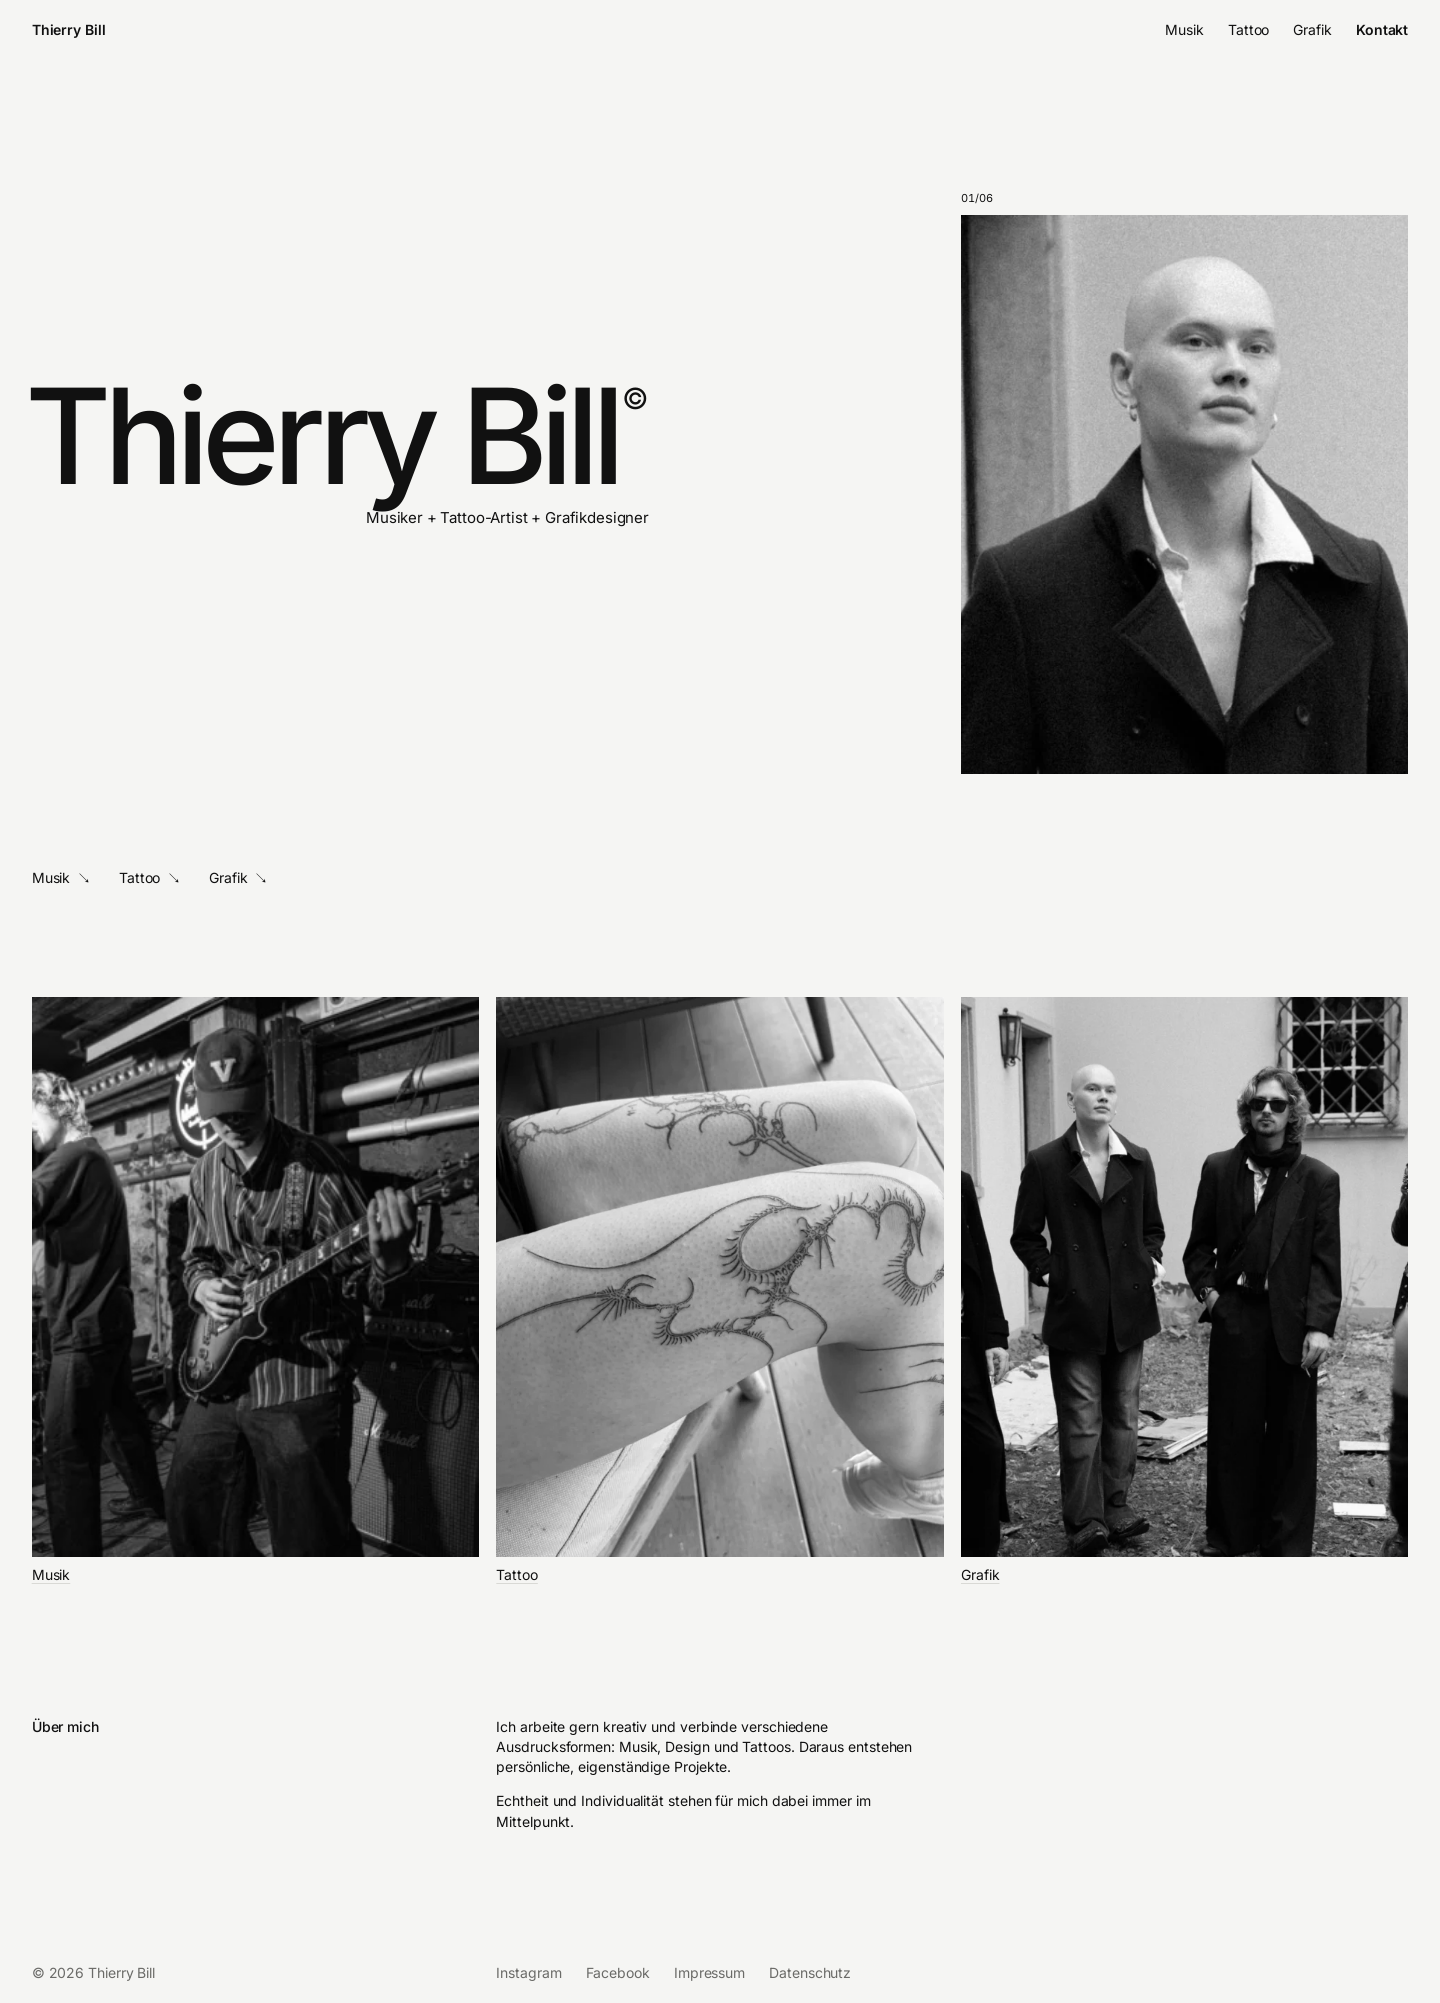
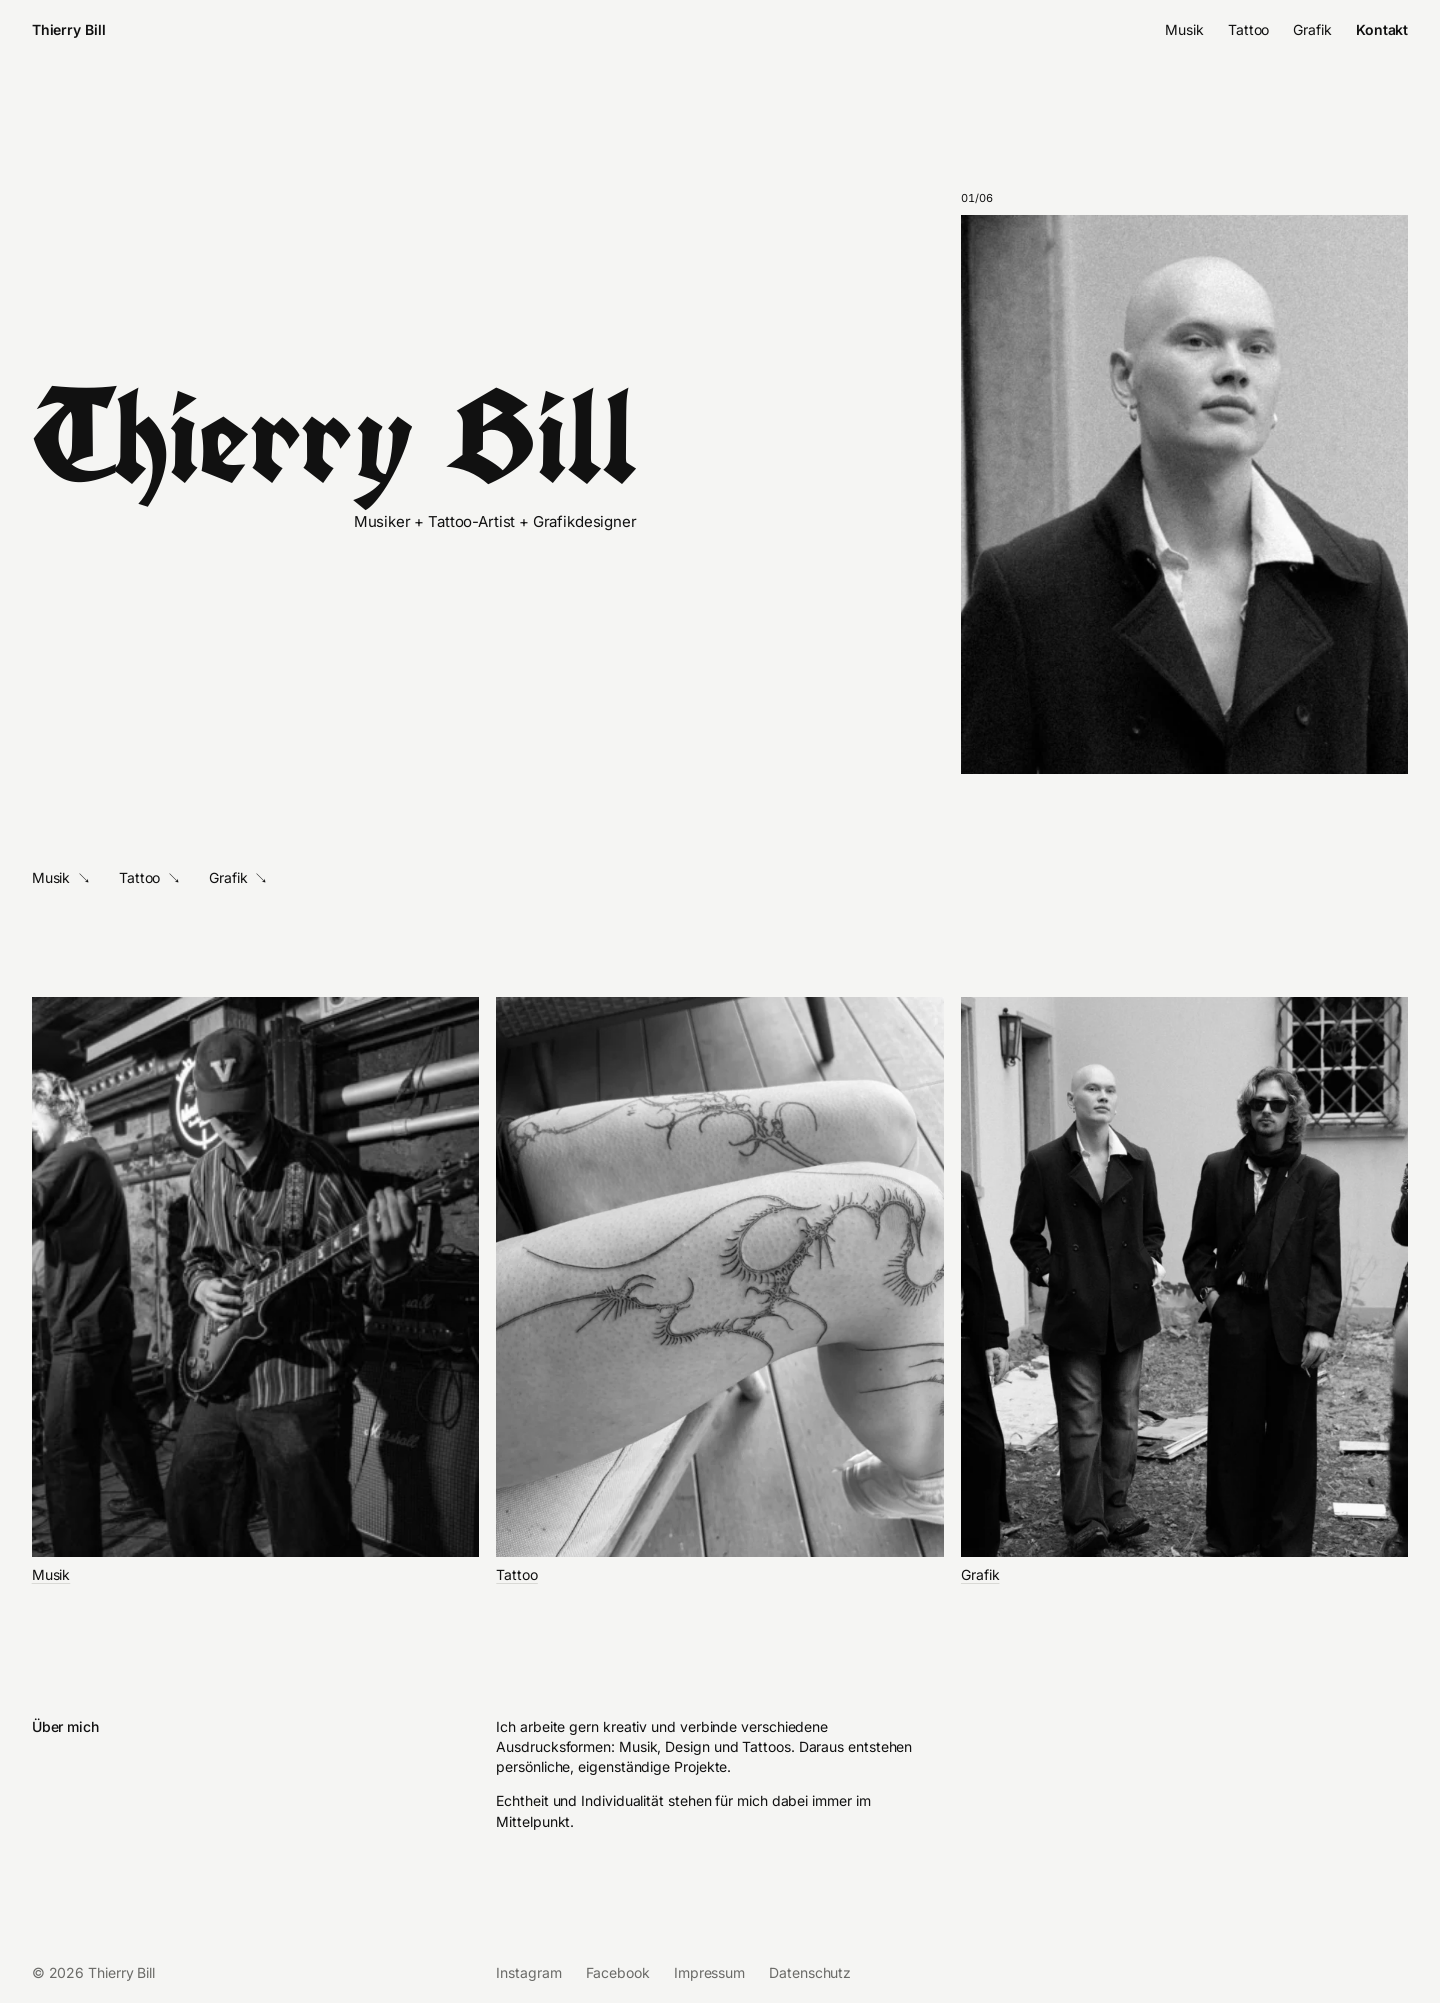
Titel in Fraktur (UnifrakturCook), © beim Namen entfernt
- Hero-Titel (Name, Musik, Tattoo, Grafik, Kontakt) in UnifrakturCook, lokal
  eingebunden (17 KB) und vorgeladen; Text und Navigation bleiben in Inter
- © hinter dem Namen auf der Startseite samt Option in tb_hero() und CSS entfernt
- Schriftvergleiche in docs/schrift-varianten.png und docs/schrift-varianten-2.png

Changed region(s): [[0.0, 0.1857, 0.4375, 0.2786]]

diff --git a/web/wp-content/themes/thierrybill/style.css b/web/wp-content/themes/thierrybill/style.css
@@ -225,26 +225,17 @@ a {
 	gap: 0.6rem;
 }
 
+/* Titel in Fraktur (UnifrakturCook): nur hier, alles andere bleibt Inter. Nie in Versalien. */
 .tb-display {
-	font-size: clamp(3rem, 9.2vw, 10.5rem) !important;
-	font-weight: 500 !important;
-	line-height: 0.92 !important;
-	letter-spacing: -0.055em !important;
+	font-family: var(--wp--preset--font-family--fraktur) !important;
+	font-size: clamp(3rem, 9vw, 10rem) !important;
+	font-weight: 700 !important;
+	line-height: 1 !important;
+	letter-spacing: 0 !important;
+	text-transform: none;
 	margin: 0;
-	margin-left: -0.05em !important;
-}
-
-.tb-display--mark::after {
-	content: "©";
-	display: inline-block;
-
-	font-size: 0.22em;
-	font-weight: 400;
-	letter-spacing: 0;
-	vertical-align: top;
-	position: relative;
-	top: 0.35em;
-	margin-left: 0.15em;
+	font-kerning: normal;
+	font-feature-settings: "liga", "dlig";
 }
 
 /* Kernaussage als H2: gleiche Optik wie der grosse Absatz */

diff --git a/web/wp-content/themes/thierrybill/functions.php b/web/wp-content/themes/thierrybill/functions.php
@@ -5,7 +5,7 @@
 
 defined( 'ABSPATH' ) || exit;
 
-define( 'THIERRYBILL_VERSION', '4.1.0' );
+define( 'THIERRYBILL_VERSION', '4.2.1' );
 
 /**
  * Theme-Setup.
@@ -278,14 +278,10 @@ function tb_placeholder( string $label, string $ratio = 'tb-r-45' ): string {
  * @param string   $subtitle Unterzeile, z. B. «Musiker + Tattoo-Artist + Grafikdesigner».
  * @param string[] $images   Bild-Schluessel (siehe tb_img_id()).
  * @param array    $links    [ [ Text, URL ], … ].
- * @param bool     $mark     «©» hinter dem Titel.
  */
-function tb_hero( string $title, string $subtitle, array $images = [], array $links = [], bool $mark = false ): string {
-	// Das «©» setzt CSS (::after), damit der H1-Text sauber «Thierry Bill» bleibt.
-	$class   = $mark ? 'tb-display tb-display--mark' : 'tb-display';
+function tb_hero( string $title, string $subtitle, array $images = [], array $links = [] ): string {
 	$heading = sprintf(
-		"<!-- wp:heading {\"level\":1,\"className\":\"%1\$s\"} -->\n<h1 class=\"wp-block-heading %1\$s\">%2\$s</h1>\n<!-- /wp:heading -->\n",
-		$class,
+		"<!-- wp:heading {\"level\":1,\"className\":\"tb-display\"} -->\n<h1 class=\"wp-block-heading tb-display\">%s</h1>\n<!-- /wp:heading -->\n",
 		esc_html( $title )
 	);
 	$inner = tb_cell( 'tb-at-1 tb-w-8 tb-hero__name', $heading . tb_p( esc_html( $subtitle ), 'tb-hero__sub' ) );
@@ -349,11 +345,14 @@ add_filter( 'render_block_core/image', static function ( string $html, array $bl
 }, 10, 2 );
 
 /**
- * Hauptschrift vorladen (verhindert spaetes Umspringen der Schrift).
+ * Schriften vorladen (verhindert spaetes Umspringen der Schrift).
  */
 add_action( 'wp_head', static function (): void {
-	printf(
-		'<link rel="preload" href="%s" as="font" type="font/woff2" crossorigin>' . "\n",
-		esc_url( get_theme_file_uri( 'assets/fonts/inter-latin.woff2' ) )
-	);
+	// Inter (Text) und UnifrakturCook (Hero-Titel, oft das groesste sichtbare Element).
+	foreach ( [ 'inter-latin.woff2', 'unifrakturcook-latin.woff2' ] as $font ) {
+		printf(
+			'<link rel="preload" href="%s" as="font" type="font/woff2" crossorigin>' . "\n",
+			esc_url( get_theme_file_uri( 'assets/fonts/' . $font ) )
+		);
+	}
 }, 1 );

diff --git a/web/wp-content/themes/thierrybill/patterns/page-start.php b/web/wp-content/themes/thierrybill/patterns/page-start.php
@@ -14,8 +14,7 @@ echo tb_hero(
 		[ 'Musik', tb_page_url( 'musik' ) ],
 		[ 'Tattoo', tb_page_url( 'tattoo' ) ],
 		[ 'Grafik', tb_page_url( 'grafik' ) ],
-	],
-	true
+	]
 );
 
 echo tb_spread(

diff --git a/README.md b/README.md
@@ -18,16 +18,16 @@ ddev start
 
 ## Theme
 
-Eigenes Block-Theme unter `web/wp-content/themes/thierrybill/`, schlicht im Stil eines Fotografen-/Art-Director-Portfolios: gebrochenes Weiss (#f5f5f3), schwarz, eine Schrift, viel Weissraum, Fotos in Schwarz-Weiss.
+Eigenes Block-Theme unter `web/wp-content/themes/thierrybill/`, schlicht im Stil eines Fotografen-/Art-Director-Portfolios: gebrochenes Weiss (#f5f5f3), schwarz, viel Weissraum, Fotos in Schwarz-Weiss. Grosse Titel in Fraktur, alles andere in Inter.
 
-- `theme.json`: Farben, Schrift **Inter** (lokal in `assets/fonts/`, keine Verbindung zu Google), Grundschrift 14 px
+- `theme.json`: Farben, Schriften **Inter** (Text, Navigation) und **UnifrakturCook** (nur Hero-Titel, Klasse `tb-display`), beide lokal in `assets/fonts/` (keine Verbindung zu Google), Grundschrift 14 px. Fraktur nie in Versalien setzen. Varianten-Vergleich: `docs/schrift-varianten.png`, `docs/schrift-varianten-2.png`
 - `templates/`: front-page, page-no-title (Seiten aus Patterns), page/single (z. B. Impressum), index, 404
 - `parts/`: header (Name fett links, Navigation rechts, «Kontakt» fett), footer (eine Zeile: © und Links)
 - `patterns/`: page-start, page-musik, page-tattoo, page-grafik, page-kontakt; intern footer-meta, not-found
 - `style.css`: Hero, Raster, Typografie, Bildfolge, Formular
 - `assets/js/thierrybill.js`: Bildfolge im Hero (Klick = nächstes Bild, sonst alle 4 s; nicht bei `prefers-reduced-motion`; ohne JS bleibt das erste Bild)
 
-**Hero (`tb_hero()`):** Jede Seite beginnt mit einem sehr grossen Titel (Startseite: «Thierry Bill©»), darunter rechtsbündig eine kleine Unterzeile («Musiker + Tattoo-Artist + Grafikdesigner»). Rechts eine Bildfolge mit Zähler «01/05», auf der Startseite unten links Pfeil-Links (Musik ↘ Tattoo ↘ Grafik ↘). Startseite bildschirmhoch, Unterseiten etwas niedriger, Kontakt ohne Bild.
+**Hero (`tb_hero()`):** Jede Seite beginnt mit einem sehr grossen Titel (Startseite: «Thierry Bill»), darunter rechtsbündig eine kleine Unterzeile («Musiker + Tattoo-Artist + Grafikdesigner»). Rechts eine Bildfolge mit Zähler «01/05», auf der Startseite unten links Pfeil-Links (Musik ↘ Tattoo ↘ Grafik ↘). Startseite bildschirmhoch, Unterseiten etwas niedriger, Kontakt ohne Bild.
 
 **Danach je Unterseite:** «Über» (Aussage + Text, Spalte 5–10), dann «Details» als Liste Begriff / Wert.
 
@@ -39,7 +39,7 @@ Helfer in `functions.php` für die Patterns: `tb_hero()`, `tb_spread()`, `tb_cel
 
 | Seite | Slug | Inhalt |
 |---|---|---|
-| Start | `/` | Hero «Thierry Bill©» mit Bildfolge (6 Fotos), drei Bereiche mit Foto, Über mich |
+| Start | `/` | Hero «Thierry Bill» mit Bildfolge (6 Fotos), drei Bereiche mit Foto, Über mich |
 | Musik | `/musik/` | Hero mit 3 Live-Fotos, Über, Details (Band, Studium, Studio, Bühnen) |
 | Tattoo | `/tattoo/` | Hero mit Tattoo-Fotos, Über, Anfrage |
 | Grafik | `/grafik/` | Hero mit Foto, Über, Details |
@@ -77,7 +77,7 @@ Ziel: jede Seite eindeutig beschrieben, sauber gegliedert, schnell. Lighthouse (
 
 Dazu eigene Meta-Beschreibungen (statt automatisch aus dem Seitentext), Beitragsbild = og:image (als JPEG-Original, weil WhatsApp WebP-Vorschauen nicht zuverlässig zeigt). Impressum und Datenschutz: `noindex`, nicht in der Sitemap.
 
-**Gliederung:** genau ein H1 pro Seite (Hero-Titel, «©» nur per CSS), Kernaussage als H2 (z. B. «Individuelle Tattoos nach eigenen Entwürfen.»), «Tattoo anfragen» und «Details» als H2, reine Beschriftungen («Über») ohne Überschrift. Alle Bilder mit Alt-Text.
+**Gliederung:** genau ein H1 pro Seite (Hero-Titel), Kernaussage als H2 (z. B. «Individuelle Tattoos nach eigenen Entwürfen.»), «Tattoo anfragen» und «Details» als H2, reine Beschriftungen («Über») ohne Überschrift. Alle Bilder mit Alt-Text.
 
 **Strukturierte Daten:** Person «Thierry Bill» mit Instagram/Facebook (sameAs), Porträt, Berufen, Band Cold Touch, Swiss Jazz School Bern (alumniOf), HSLU (affiliation, laufendes Studium), Fachgebiete. Die von The SEO Framework fälschlich zusätzlich ausgegebene «Organization» wird durch die Person ersetzt (eine Entität statt zwei).
 
@@ -90,7 +90,7 @@ Dazu eigene Meta-Beschreibungen (statt automatisch aus dem Seitentext), Beitrags
 - Honeypot-Feld mit `tabindex="-1"` (statt 1000)
 - neue Bilder als **WebP** (rund halb so gross wie JPEG); bestehende Bilder nach Änderungen: `ddev wp media regenerate --yes`
 
-**Theme (Ladezeit):** Schrift Inter vorgeladen; Bildgrösse `tb-600` als Zwischenstufe im srcset; passende `sizes` je Bildtyp; nur das erste Hero-Bild lädt sofort (`fetchpriority="high"`), alle anderen lazy; Grau auf Kontrast 4.9:1 angehoben.
+**Theme (Ladezeit):** Schriften Inter und UnifrakturCook (17 KB) vorgeladen; Bildgrösse `tb-600` als Zwischenstufe im srcset; passende `sizes` je Bildtyp; nur das erste Hero-Bild lädt sofort (`fetchpriority="high"`), alle anderen lazy; Grau auf Kontrast 4.9:1 angehoben.
 
 **Sitemap/robots:** `/sitemap.xml` (Start, Musik, Tattoo, Grafik, Kontakt), in `robots.txt` eingetragen. Lokal ist die Seite absichtlich `noindex` (`blog_public` = 0).
 
